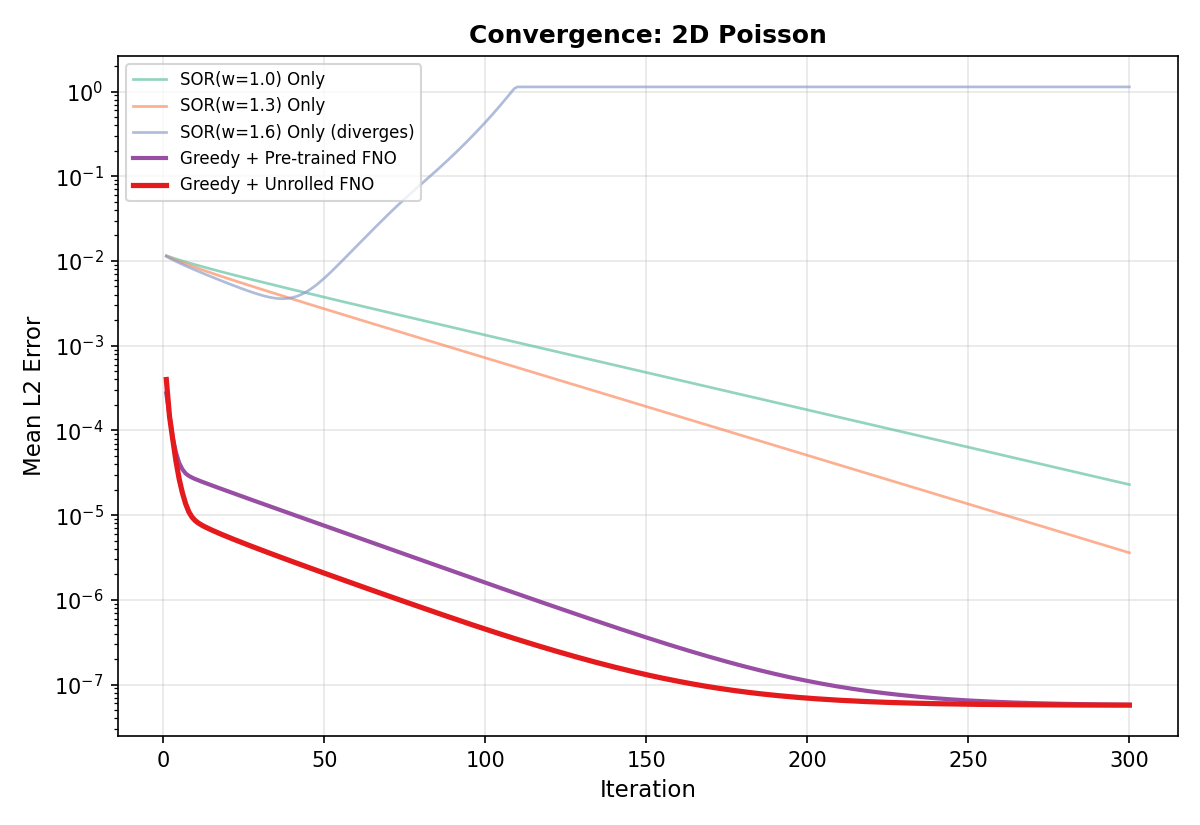
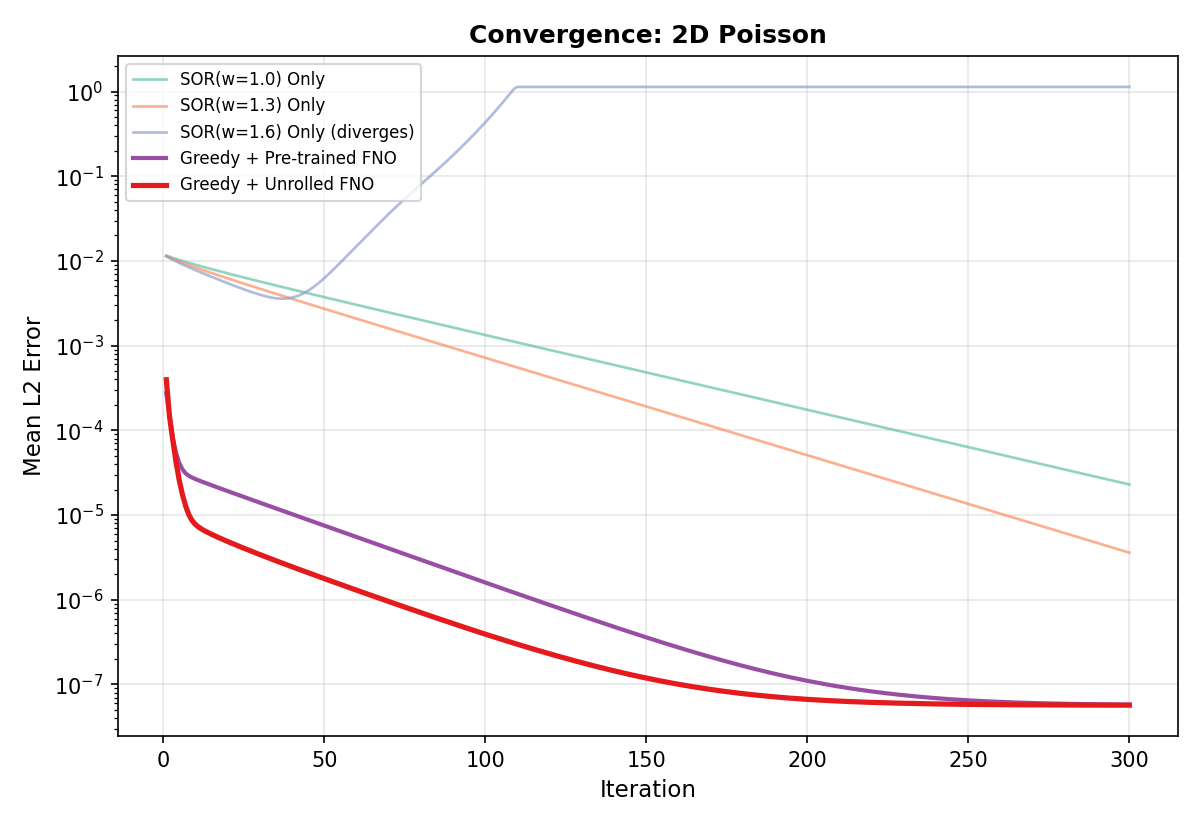
blah

Changed region(s): [[0.2158, 0.6667, 0.6783, 0.8485], [0.1542, 0.6061, 0.2158, 0.6667], [0.0617, 0.6061, 0.0925, 0.6364]]

diff --git a/slides.md b/slides.md
@@ -316,8 +316,8 @@ class: text-center
 <div class="text-center p-3 rounded-lg bg-white/5 border border-cyan-400/40">
 
 <span class="text-cyan-400">**Greedy + Unrolled FNO**</span>
-<br><span class="font-mono text-xs">Final L2: 5.72 × 10⁻⁸</span>
-<br><span class="font-mono text-xs text-cyan-400">AUC: 9.98 × 10⁻⁴ — 396× lower</span>
+<br><span class="font-mono text-xs">Final L2: 5.70 × 10⁻⁸</span>
+<br><span class="font-mono text-xs text-cyan-400">AUC: 9.58 × 10⁻⁴ — 412× lower</span>
 
 </div>
 </div>
@@ -392,8 +392,8 @@ class: text-center
 
 | | **Best Classical** | **Greedy + FNO** | **Greedy + Unrolled FNO** | **vs. Classical** |
 |---|---|---|---|---|
-| **Poisson — Final L2** | 3.60 × 10⁻⁶ | 5.78 × 10⁻⁸ | **5.72 × 10⁻⁸** | 63× lower |
-| **Poisson — AUC** | 0.395 | 1.59 × 10⁻³ | **9.98 × 10⁻⁴** | 396× lower |
+| **Poisson — Final L2** | 3.60 × 10⁻⁶ | 5.78 × 10⁻⁸ | **5.70 × 10⁻⁸** | 63× lower |
+| **Poisson — AUC** | 0.395 | 1.59 × 10⁻³ | **9.58 × 10⁻⁴** | 412× lower |
 | **ConvDiff — Final L2** | 1.84 × 10⁻⁸ | **1.41 × 10⁻⁸** | *in progress* | 1.3× lower |
 | **ConvDiff — AUC** | 0.091 | **0.058** | *in progress* | 1.6× lower |
 
@@ -401,7 +401,7 @@ class: text-center
 
 <div class="mt-4 pl-4 border-l-2 border-cyan-400 opacity-80 text-sm">
 
-**Key findings:** Greedy routing with an FNO achieves **up to 396× lower AUC** than the best single classical solver. Unrolled fine-tuning — training the FNO on real in-loop residuals — provides a further **1.6× gain** over the pre-trained FNO.
+**Key findings:** Greedy routing with an FNO achieves **up to 412× lower AUC** than the best single classical solver. Unrolled fine-tuning — training the FNO on real in-loop residuals — provides a further **1.7× gain** over the pre-trained FNO.
 
 </div>
 
